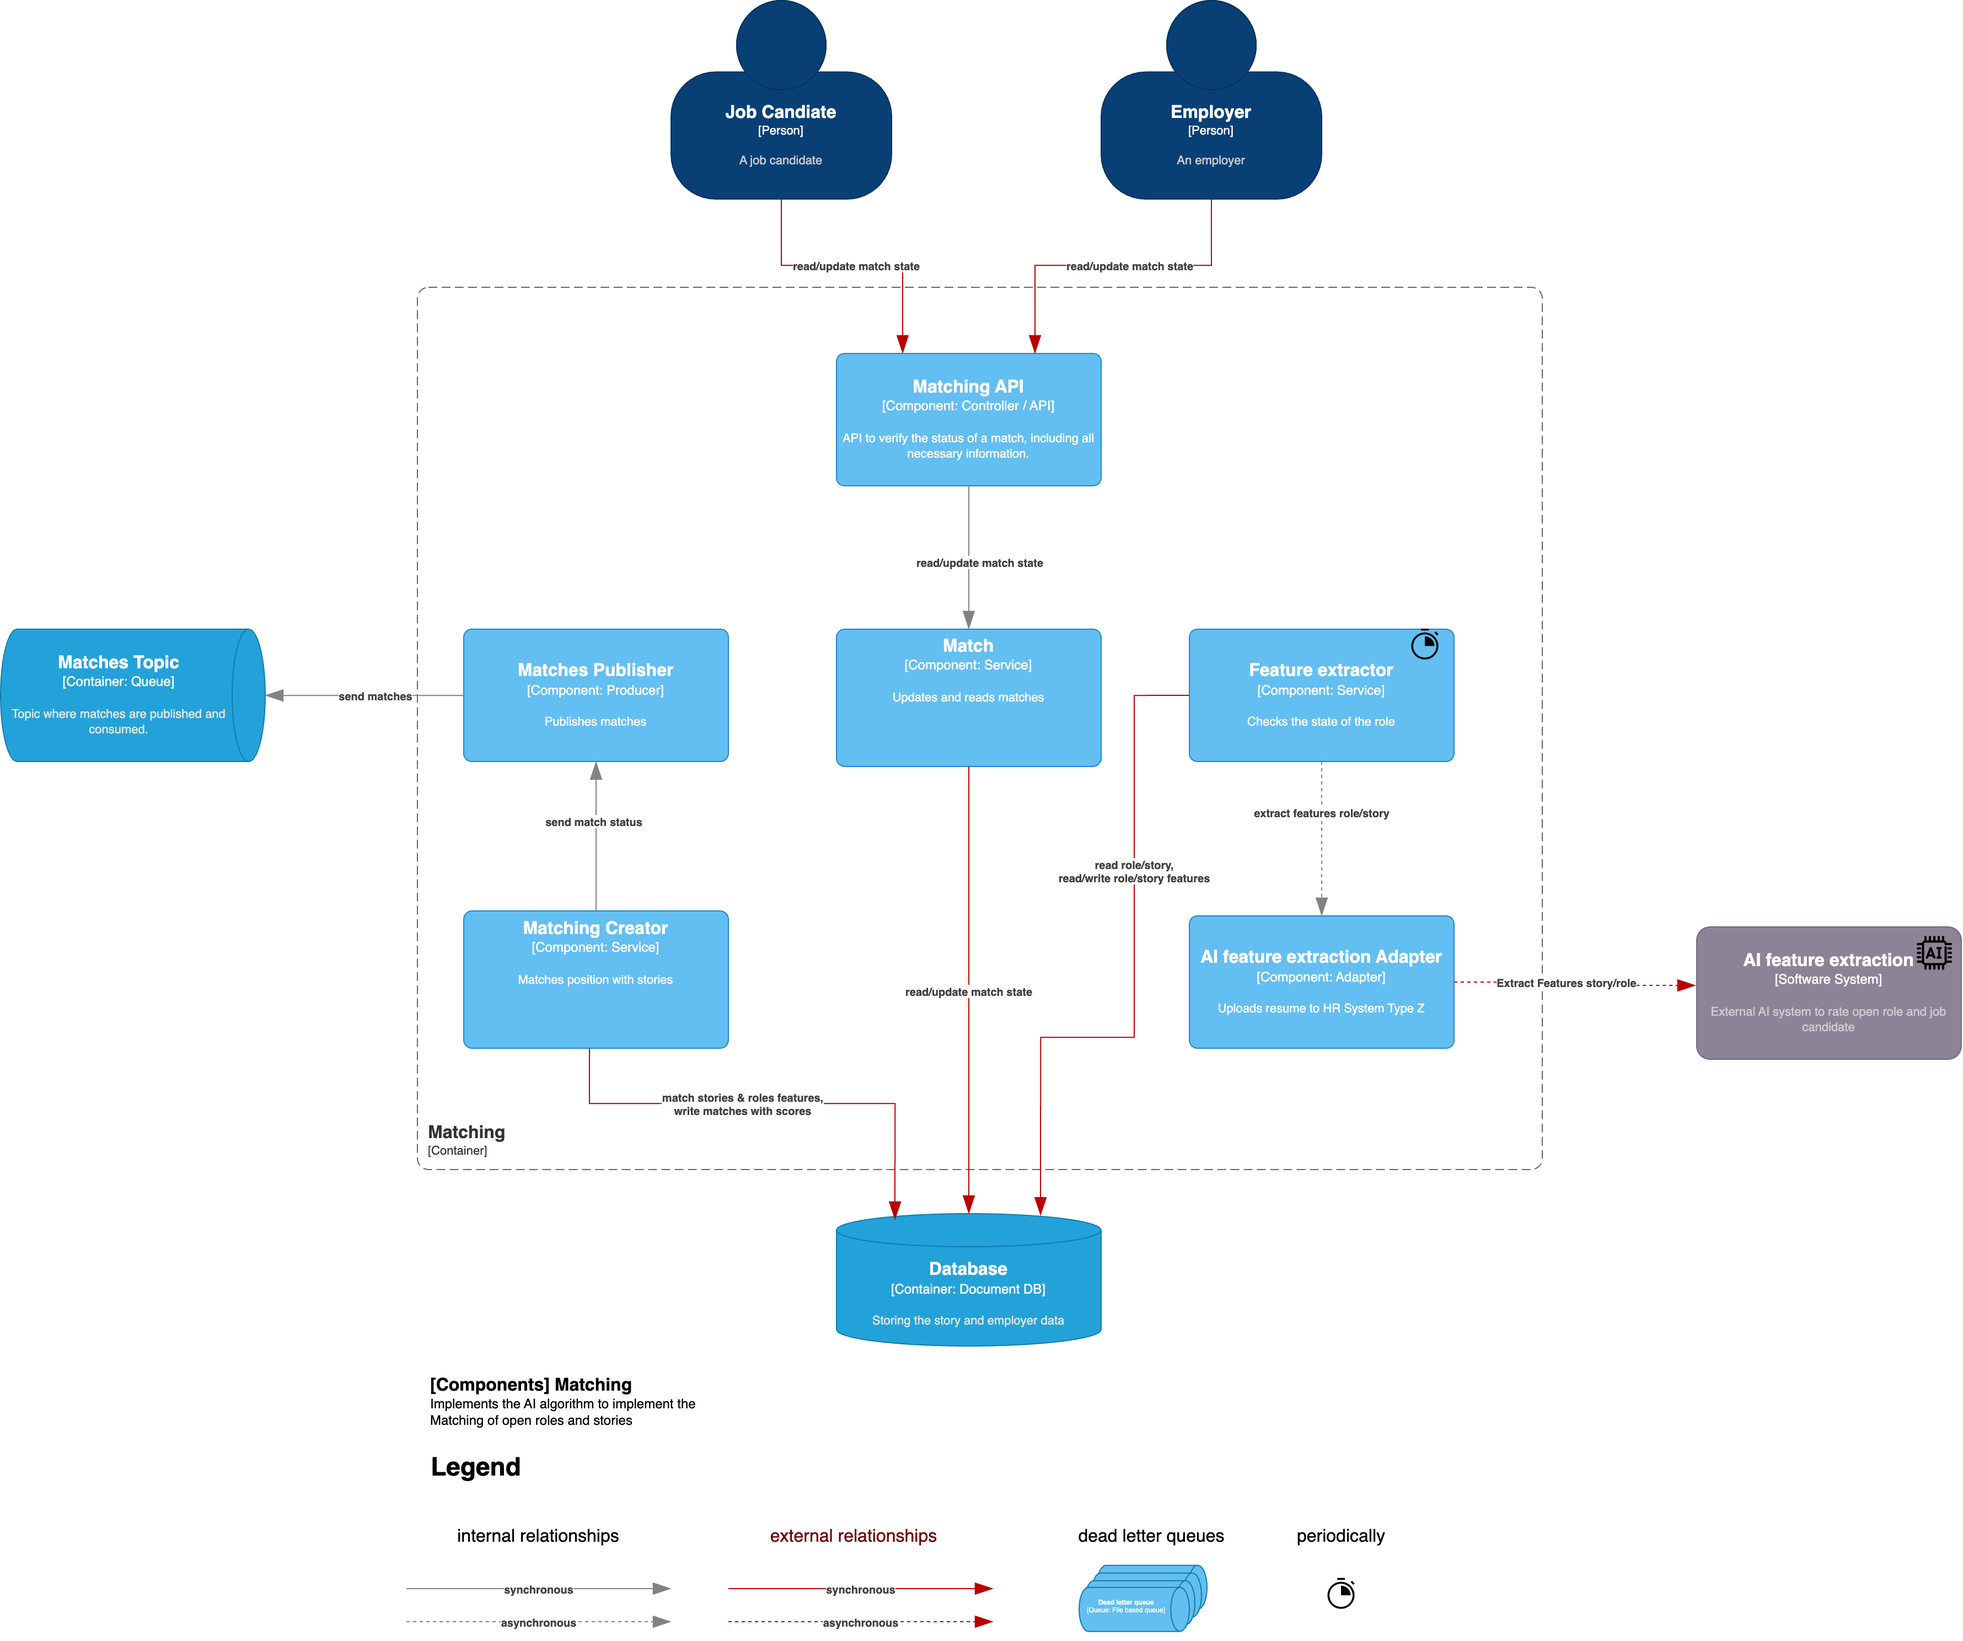
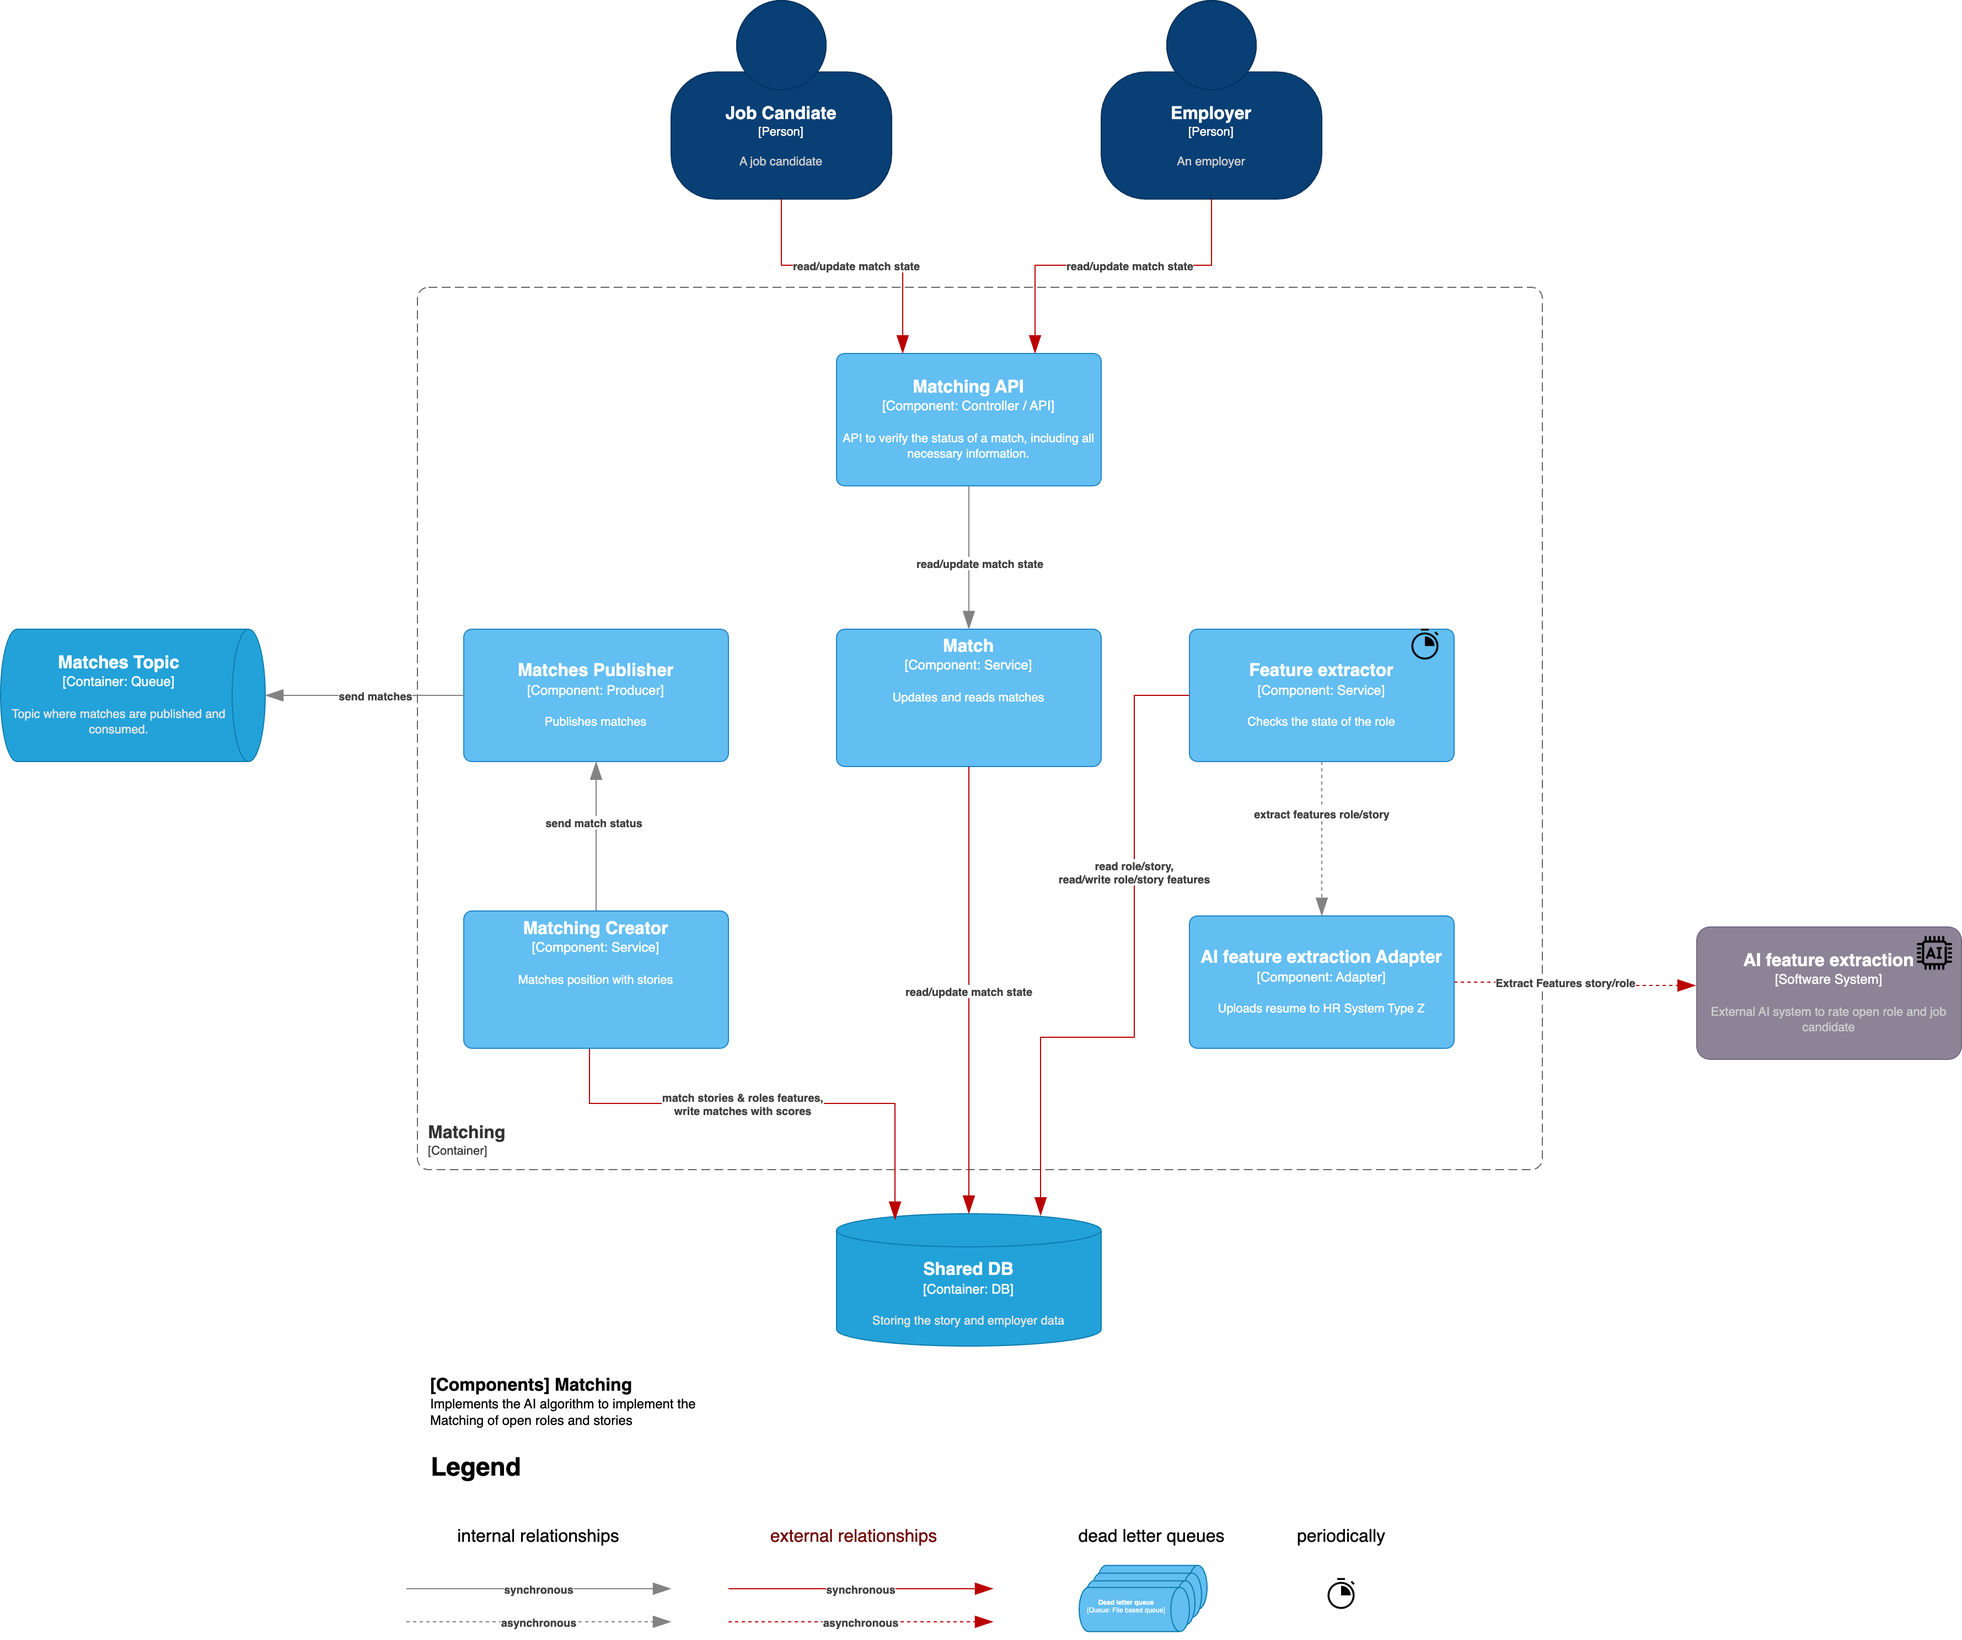
Update C4 Diagrams

diff --git a/C4/C3-components-matching.md b/C4/C3-components-matching.md
@@ -1,56 +1,40 @@
 # Components Diagram (C3) - Matching System
 
-In this C3 diagram, we illustrate how different components within the matching system interact to save and rate stories and roles, and how the system generates matches between them.
+In this C3 diagram, we explain how different components within the **Matching System** interact. The system manages saving stories and roles, extracting AI-based features, and generating matches between them. Due to the large size of the UI, it is not represented in this data flow. However, all interactions by **Job Candidates** and **Employers** happen through the UI, which communicates with the **Matching API**.
 
-## Matching System Overview
+### Matching System Overview
 
-The **Matching System** manages the processes of saving stories and roles, rating them using AI, and matching stories to roles.
-
-TODO: Add actors -> CRUD on matching directly
-TODO: Move db outside,  direct access through db
-TODO: Maybe rename story and role -> Rating Service rename to Scoring Service
-TODO: Scoring not AI, Feature extraction AI -> ADR-011
-TODO: MAybe seperate Feature extraction
+The **Matching System** facilitates saving stories and roles, rating them using AI, and matching them. It uses asynchronous processes, AI feature extraction, and periodic checks for new or unmatched stories and roles.
 
 ![Components Diagram (C3) - Story Processing](/C4/images/C3-components-matching.png)
 
-### Story Saving
+## Data Flow
 
-1. The **Story Container** sends the story data to the **Matching API**.
-2. The **Matching API** forwards the story to the **Story Component**.
-3. The **Story Component** stores the story in the **Database**.
+### Reading the Match Status
 
-### Role Saving
+1. **Job Candidate** or **Employer** requests the match status via the **Matching API**.
+2. The **Matching API** retrieves the match status from the **Match Service**.
+3. The **Match Service** reads the relevant data from the **Shared Database**.
+4. The **Matching API** sends the result back to the **Job Candidate** or **Employer**.
 
-1. The **Employer Container** sends role data to the **Matching API**.
-2. The **Matching API** forwards the role to the **Role Component**.
-3. The **Role Component** stores the role in the **Database**.
+### Updating the Match State
 
-### Story Rating
+1. **Job Candidate** or **Employer** submits an update request for a match state via the **Matching API**.
+2. The **Matching API** forwards the request to the **Match Service**.
+3. The **Match Service** writes the updated state to the **Shared Database**.
+4. A confirmation is sent back through the **Matching API** to the **Job Candidate** or **Employer**.
 
-TODO: Add scheduling (clock)
+### Periodic Feature Extraction
 
-1. The **Story Container** checks for stories without a rating.
-2. If unrated stories are found, they are sent to the **AI Rating Adapter**.
-3. The **AI Rating Adapter** sends the stories to the **AI Rating System**.
-4. The **AI Rating System** returns the ratings to the **AI Rating Adapter**.
-5. The **AI Rating Adapter** passes the ratings back to the **Story Container**.
-6. The **Story Container** writes the ratings to the **Database**.
+1. The **Feature Extractor** periodically checks the **Shared Database** for **open roles** or **stories** without a rating.
+2. The **Feature Extractor** sends the unrated stories or roles to the **AI Feature Extraction Adapter** (asynchronously).
+3. The **AI Feature Extraction Adapter** forwards the request to the **AI Feature Extraction** service (external, asynchronous).
+4. The **AI Feature Extraction** service processes the story or role and sends the extracted features back to the **AI Feature Extraction Adapter**.
+5. The **AI Feature Extraction Adapter** forwards the features to the **Feature Extractor**, which writes them to the **Shared Database**.
 
-### Role Rating
+### Match Creation Process
 
-1. The **Role Container** checks for roles without a rating.
-2. If unrated roles are found, they are sent to the **AI Rating Adapter**.
-3. The **AI Rating Adapter** sends the roles to the **AI Rating System**.
-4. The **AI Rating System** returns the ratings to the **AI Rating Adapter**.
-5. The **AI Rating Adapter** passes the ratings back to the **Role Container**.
-6. The **Role Container** writes the ratings to the **Database**.
-
-### Create Match
-TODO: Add scheduling (clock)
-
-1. The **Match Engine** periodically checks for new stories and roles.
-2. If new or unmatched stories and roles are found, the **Match Engine** compares the unrated or unmatched stories with open roles.
-3. If a match is found, the **Match Engine** stores the match in the **Database**.
-4. The **Match Engine** notifies the **Matches Publisher**.
-5. The **Matches Publisher** sends a notification to the **Match Topic Queue**.
+1. The **Match Creator** periodically checks the **Shared Database** for combinations of **open roles** and **stories** that haven't been evaluated.
+2. The **Match Creator** analyzes the combinations and searches for potential matches.
+3. If a match is found, the **Matches Publisher** is notified.
+4. The **Matches Publisher** sends the match information to the **Match Topic Queue** for further processing.

diff --git a/C4/C3-components-job-candidate.md b/C4/C3-components-job-candidate.md
@@ -1,19 +1,20 @@
 # Components Diagram (C3) - Job Candidate
 
-In the C4 model, the C3 diagrams show how components within a container interact to manage different processes.
-
-For the **Job Candidate Management** container, we want to outline how candidates submit their resumes, request AI-based tips, and manage their data.
+In the C4 model, C3 diagrams illustrate how components within a container operate and interact. For the **Job Candidate Management** container, we focus on how candidates submit resumes, request AI-based tips, and manage their data, integrating relevant architectural decisions (ADRs).
 
 ### Job Candidate Overview
 
+- **Asynchronous Integration**  
+  The interaction with external systems for AI-based features, such as resume tips, is handled asynchronously, as detailed in [ADR-005](ADR/ADR-005-async-with-external-systems.md).
+
+- **External LLMs Usage**  
+  The resume tips are generated by an external large language model (LLM), following guidelines set out in [ADR-007](ADR/ADR-007-use-of-external-llms.md).
+
 - **AI-Powered Resume Tips**  
-  The resume submission process allows candidates to request feedback through the AI-based **Resume Tips Adapter**, which provides suggestions to improve their resume. Once the tips are returned, they are passed back to the **Resume Service** and stored in the job candidate's record.
+  Candidates can request feedback through the **AI Resume Tips Adapter**, which provides suggestions for improving their resumes. Once the tips are returned, they are stored in the job candidate's record via the **Resume Service**.
 
 ![Components Diagram (C3) - Job Candidate](/C4/images/C3-components-job-candidate.png)
 
-TODO: DB outside, Actor add?, get tips asyncronous
-
-ADR-005, ADR-007
 
 ## Data Flow
 
@@ -21,26 +22,21 @@ ADR-005, ADR-007
 
 1. The **Candidate** requests resume tips through the **Candidate API**.
 2. The **Candidate API** forwards the request to the **Resume Service**.
-3. The **Resume Service** invokes the **AI Resume Tips Adapter**.
-4. The **AI Resume Tips Adapter** sends the resume data to the **AI Resume Tips System**.
-5. The **AI Resume Tips System** generates the tips and sends them back to the **AI Resume Tips Adapter**.
-6. The **AI Resume Tips Adapter** passes the tips back to the **Resume Service**.
-7. The **Resume Service** stores the resume tips in the **Job Candidate Database** for future reference by the candidate.
+3. The **Resume Service** interacts asynchronously with the **AI Resume Tips Adapter**, as specified in [ADR-005](ADR/ADR-005-async-with-external-systems.md).
+4. The **AI Resume Tips Adapter** sends the resume data to the external **AI Resume Tips System**, which uses an external LLM per [ADR-007](ADR/ADR-007-use-of-external-llms.md).
+5. The **AI Resume Tips System** processes the request and sends the tips back to the **AI Resume Tips Adapter**.
+6. The **AI Resume Tips Adapter** forwards the tips to the **Resume Service**.
+7. The **Resume Service** stores the tips in the **Job Candidate Database** for the candidate to access later.
 
 ### Submitting a Resume for Anonymization
 
 1. The **Candidate** submits their resume through the **Candidate API**.
 2. The **Candidate API** forwards the resume to the **Resume Service**.
-3. The **Resume Service** sends the resume to the **Story Container**.
-4. The **Story Container** handles the anonymization of the resume data.
-TODO -> Dont store resume ADR-007
-5. Once anonymized, the **Story Container** returns the anonymized resume to the **Resume Service**.
-6. The **Resume Service** stores the anonymized resume in the **Job Candidate Database**.
-
-This use case is described as a sequence diagram in further detail [here](/UseCases/use-case-upload-a-resume.md).
+3. The **Resume Service** sends the resume to the **Story Container** for processing.
+4. The **Story Container** handles anonymization, ensuring the resume is processed without revealing personally identifiable information.
 
 ### Managing Candidate Information
 
 1. The **Candidate** can update or modify their information through the **Candidate API**.
-2. The **Candidate API** communicates with the **Candidate Service**, which accesses and updates the **Job Candidate Database**.
-3. The **Candidate Service** retrieves or stores the updated data in the database as needed.
+2. The **Candidate API** interacts with the **Candidate Service**, which accesses and updates the **Job Candidate Database**.
+3. The **Candidate Service** retrieves or stores the updated data in the **Shared Database** as needed.

diff --git a/C4/C3-components-story.md b/C4/C3-components-story.md
@@ -1,32 +1,35 @@
 # Components Diagram (C3) - Story
 
-In the C4 model, the C3 diagrams highlight how the components within a container operate and interact.
-
-For the Story Processing container, we want to show how we incorporate the characteristics of *automation* and *data anonymization*.
+In the C4 model, the C3 diagrams highlight how components within a container operate and interact. For the **Story Processing** container, we focus on the incorporation of **automation** and **data anonymization**, ensuring secure and efficient handling of job candidate data.
 
 ### Story Processing Overview
 
 - **AI-Driven Automation**  
-  The story processing pipeline leverages AI-based adapters to automate the rating and anonymization of job candidate resumes, as described in [ADR-006 AI Models run on separate containers](/ADR/ADR-006-ai-models-run-on-separate-containers.md). The process ensures consistency and efficiency in the handling of candidate data.
+  The story processing pipeline leverages AI-based adapters to automate the rating and anonymization of candidate resumes, as detailed in [ADR-006: AI Models run on separate containers](ADR/ADR-006-ai-models-run-on-separate-containers.md). This ensures consistency, scalability, and efficiency in processing and anonymizing data.
+
+- **Asynchronous Event Handling**  
+  The system operates asynchronously, using events to process stories, ensuring decoupling between services, as described in [ADR-005: Asynchronous Communication with External Systems](ADR/ADR-005-async-with-external-systems.md).
+
+- **Deterministic Processing**  
+  The anonymization and rating processes follow deterministic logic to ensure predictable and reliable results, as described in [ADR-011: Deterministic Matching](ADR/ADR-011-deterministic-matching.md).
 
 ![Components Diagram (C3) - Story Processing](/C4/images/C3-components-story.png)
 
-TODO: Asynchronous to adapter
 
 ## Data flow
 
 ### Sending a Resume for Story
 
-1. The **Candidate** container submits a resume through the system interface.
-2. The resume is sent to the **Story API**.
-3. The **Story API** forwards it to the **Resume Service**.
-4. The **Resume Service** forwards it to the **AI Anonymize Adapter**.
-5. The **AI Anonymize Adapter** sends it to the **AI Anonymize System**.
+1. The **Candidate** submits, which communicates with the **Story API**.
+2. The **Story API** forwards the resume to the **Resume Service**.
+3. The **Resume Service** sends the resume to the **AI Anonymize Adapter** asynchronously.
+4. The **AI Anonymize Adapter** passes the resume to the **AI Anonymize System**, which runs on separate containers.
+5. The **AI Anonymize System** anonymizes the resume, ensuring that no personally identifiable information is stored.
 
 ### Storing the Story
 
 1. Once the **AI Anonymize System** anonymizes the resume, it returns the processed story to the **AI Anonymize Adapter**, which sends the story back to the **Resume Service**.
-2. The **Resume Service** (or **Story Processor**) stores the anonymized story directly in the **Matching Database** (or **Central Matching Database**) for further use in the matching process.
+2. The **Resume Service** stores the anonymized story directly in the **Shared Database**.
 3. In case of processing failures, the resume is queued for retry, ensuring no data is lost during the process.
 
 

diff --git a/README.md b/README.md
@@ -128,7 +128,7 @@ components in greater detail.
 The context view allows us to get a first grasp of the actors and the external components interacting with the ClearView
 system.
 
-![Context diagram  (C1)](/C4/images/C1-Context.png)
+![Context diagram (C1)](/C4/images/C1-Context.png)
 
 The full Context diagram with the description of the Actors and Systems can be found [here](/C4/C1-context.md).
 
@@ -147,9 +147,11 @@ found [here](/C4/C2-container.md).
 
 To address the main challenges of this system, we created a components diagram:
 
-- **[HR Integration Components](/C4/C3-components-hr-integration.md)**: This diagram illustrates how we integrate *
-  *Interoperability** and **Fault Tolerance** into our architecture.
-- TODO -> Stefano AI -> testability
+- **[Job Candidate Components](/C4/C3-components-job-candidate.md)**: This diagram illustrates how we integrate **TODO STA** and **TODO STA** into our architecture.
+- **[Story Components](/C4/C3-components-story.md)**: This diagram illustrates how we integrate **TODO STA** and **TODO STA** into our architecture.
+- **[Matching Components](/C4/C3-components-matching.md)**: This diagram illustrates how we integrate **TODO STA** and **TODO STA** into our architecture.
+- **[HR Integration Components](/C4/C3-components-hr-integration.md)**: This diagram illustrates how we integrate **Interoperability** and **Fault Tolerance** into our architecture.
+
 
 An interaction of the Containers and Components is documented in the Use
 Case: [Upload and Publish a Resume](/UseCases/use-case-upload-a-resume.md)
